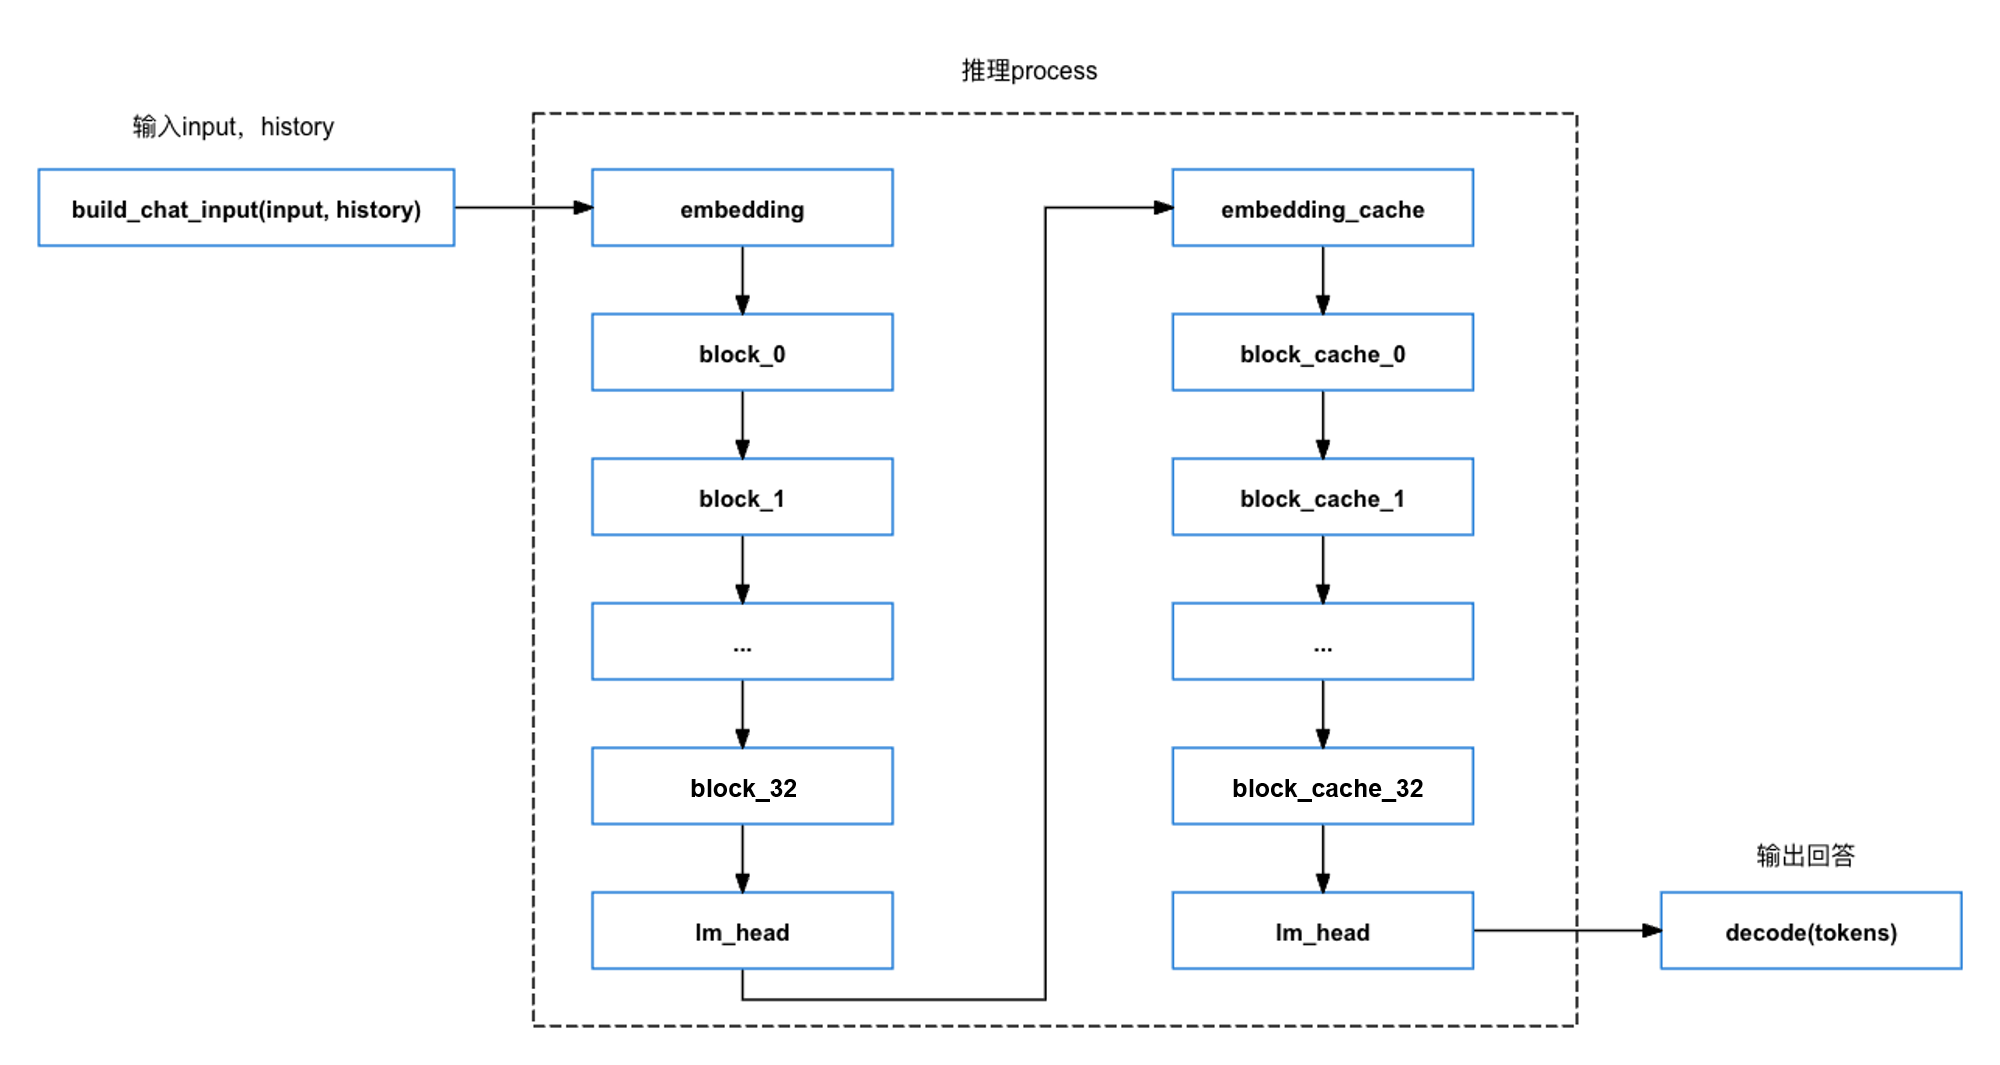
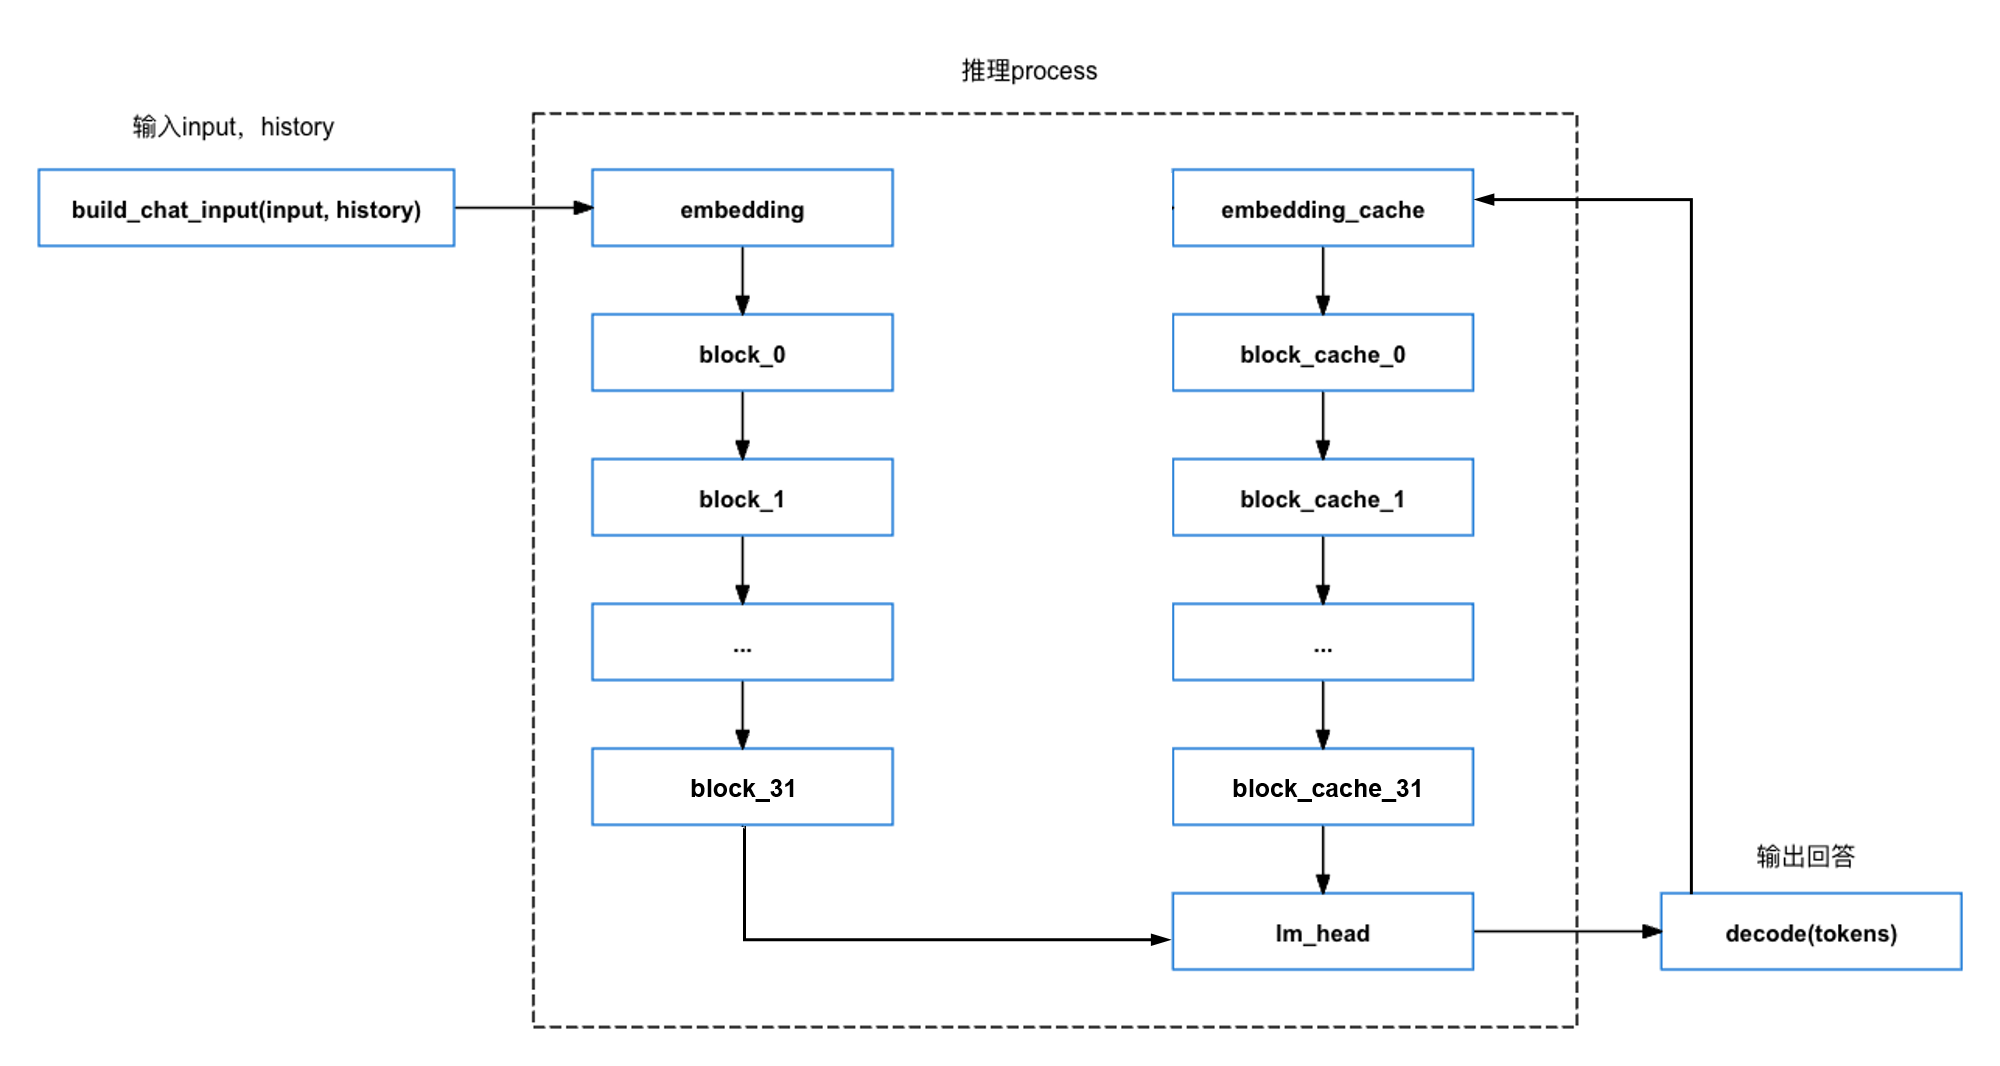
fix(Baichuan2): fix the Readme problem
jira link:
https://jira.sophgo.com/browse/SLSOFTTASK-1322
https://jira.sophgo.com/browse/SLSOFTTASK-1323
https://jira.sophgo.com/browse/SLSOFTTASK-1324
https://jira.sophgo.com/browse/SLSOFTTASK-1326
https://jira.sophgo.com/browse/SLSOFTTASK-1327

diff --git a/sample/Baichuan2/python/README.md b/sample/Baichuan2/python/README.md
@@ -12,6 +12,7 @@
     * [3.1 使用方式](#31-使用方式)
     * [3.2 程序流程图](#32-程序流程图)
     * [3.3 程序二次开发说明](#33-程序二次开发说明)
+* [4. FAQ](#4-faq)
 
 python目录下提供了一系列Python例程，具体情况如下：
 
@@ -23,51 +24,68 @@ python目录下提供了一系列Python例程，具体情况如下：
 
 ## 1. 环境准备
 ### 1.1 x86/arm PCIe平台
+首先您需要安装第三方库：
+```bash
+pip3 install -r python/requirements.txt -i https://pypi.tuna.tsinghua.edu.cn/simple
+```
+
 如果您在x86/arm平台安装了PCIe加速卡（如SC系列加速卡），并使用它测试本例程，您需要安装libsophon、sophon-opencv、sophon-ffmpeg，具体请参考[x86-pcie平台的开发和运行环境搭建](../../../docs/Environment_Install_Guide.md#3-x86-pcie平台的开发和运行环境搭建)或[arm-pcie平台的开发和运行环境搭建](../../../docs/Environment_Install_Guide.md#5-arm-pcie平台的开发和运行环境搭建)。
 
 其中，libsophon需要使用0.5.1版本，相关功能暂未发布，这里暂时提供一个可用的libsophon版本，您可以通过下面的命令下载：
 ```bash
-pip3 install dfss --upgrade  #安装dfss依赖
+pip3 install dfss  --upgrade -i https://pypi.tuna.tsinghua.edu.cn/simple  #安装dfss依赖
 python3 -m dfss --url=open@sophgo.com:sophon-demo/baichuan2/libsophon/libsophon.tar.gz  #下载libsophon软件包
 tar xvf libsophon.tar.gz
 ```
-下载完libsophon后，可参考[libsophon用户手册](https://doc.sophgo.com/sdk-docs/v23.09.01-lts/docs_latest_release/docs/libsophon/guide/html/1_install.html#)，根据对应的Linux发行版进行安装。
+下载完libsophon后，可参考[libsophon用户手册3.](https://doc.sophgo.com/sdk-docs/v23.09.01-lts/docs_latest_release/docs/libsophon/guide/html/1_install.html#)，根据您的Linux发行版选择对应的方式进行安装。
 
-此外您还需要安装其他第三方库：
-```bash
-pip3 install -r python/requirements.txt -i https://pypi.tuna.tsinghua.edu.cn/simple
-```
 您还需要安装sophon-sail，由于本例程需要的sophon-sail版本为3.8.0，相关功能暂未发布，这里暂时提供一个可用的sophon-sail版本，x86 PCIe环境可以通过下面的命令下载：
 ```bash
 #x86 pcie, py38
 python3 -m dfss --url=open@sophgo.com:sophon-demo/baichuan2/sail/sophon-3.8.0-py3-none-any.whl
-pip3 install sophon-3.8.0-py3-none-any.whl
+pip3 install sophon-3.8.0-py3-none-any.whl --force-reinstall
 ```
-如果您需要其他版本的sophon-sail，或者遇到glibc版本问题（pcie环境常见），可以通过以下命令下载源码，并参考[sophon-sail编译安装指南](https://doc.sophgo.com/sdk-docs/v23.07.01/docs_latest_release/docs/sophon-sail/docs/zh/html/1_build.html#)自己编译sophon-sail。
+如果您需要其他版本的sophon-sail，或者遇到glibc版本问题（pcie环境常见），可以通过以下命令下载源码，并参考[sophon-sail编译安装指南3.2.2.1](https://doc.sophgo.com/sdk-docs/v23.07.01/docs_latest_release/docs/sophon-sail/docs/zh/html/1_build.html#id4)自己编译sophon-sail。
 ```bash
 python3 -m dfss --url=open@sophgo.com:sophon-demo/baichuan2/sail/sophon-sail_3.8.0.tar.gz
 tar xvf sophon-sail_3.8.0.tar.gz
 ```
 
 ### 1.2 SoC平台
-
-如果您使用SoC平台（如SE、SM系列边缘设备），并使用它测试本例程，刷机后在`/opt/sophon/`下已经预装了相应的libsophon、sophon-opencv和sophon-ffmpeg运行库包。
-
-此外您还需要安装其他第三方库：
+首先您需要安装第三方库：
 ```bash
 pip3 install -r python/requirements.txt -i https://pypi.tuna.tsinghua.edu.cn/simple
 ```
-由于本例程需要的sophon-sail版本为3.8.0，这里提供一个可用的sophon-sail whl包，SoC环境可以通过下面的命令下载：
+> **注意：**
+> 1. 若`xformers`安装失败，报错`ModuleNotFoundError: No module named 'torch'`，原因可能是刷机后的新环境没有顺利安装`torch`。按以下方法单独安装好torch后，即可继续安装第三方库。
 ```bash
-pip3 install dfss --upgrade
-python3 -m dfss --url=open@sophgo.com:sophon-demo/baichuan2/sail/sophon_arm-3.8.0-py3-none-any.whl #arm soc, py38
+pip3 install torch==2.1.2 --force-reinstall
 ```
-如果您需要其他版本的sophon-sail，或者遇到glibc版本问题，可以通过以下命令下载libsophon软件包和sophon-sail源码，并参考[libsophon安装指南](https://doc.sophgo.com/sdk-docs/v23.09.01-lts/docs_latest_release/docs/libsophon/guide/html/1_install.html#)自己安装libsophon，然后参考[sophon-sail编译安装指南](https://doc.sophgo.com/sdk-docs/v23.07.01/docs_latest_release/docs/sophon-sail/docs/zh/html/1_build.html#)自己编译sophon-sail。
+> 2. 若安装`xformers`时卡死，请查看cpu内存是否达到4096MB。内存不足可参考[SoC内存修改方法](../README.md#3-运行环境准备)降低tpu内存，待安装完python第三方库后再将tpu内存改至 所需大小。
+
+如果您使用SoC平台（如SE、SM系列边缘设备），并使用它测试本例程，刷机后在`/opt/sophon/`下已经预装了相应的libsophon、sophon-opencv和sophon-ffmpeg运行库包。
+若预装的libsophon版本不是0.5.1，您还需要通过以下命令下载SD卡刷机包，并参考[BSP-软件更新](https://doc.sophgo.com/sdk-docs/v23.09.01-lts/docs_latest_release/docs/sophon-img/reference/html/1_BM1684X-software.html#id14)对设备进行刷机。刷机后libsophon版本即为0.5.1。
 ```bash
-#libsophon软件包
+#下载SD卡刷机包
+python3 -m dfss --url=open@sophgo.com:sophon-demo/baichuan2/libsophon/sdcard.tgz  
+```
+
+由于本例程需要的sophon-sail版本为3.8.0，这里提供一个可用的sophon-sail whl包，SoC环境可以通过下面的命令下载并安装：
+```bash
+pip3 install dfss  --upgrade -i https://pypi.tuna.tsinghua.edu.cn/simple
+python3 -m dfss --url=open@sophgo.com:sophon-demo/baichuan2/sail/sophon_arm-3.8.0-py3-none-any.whl #arm soc, py38
+pip3 install sophon_arm-3.8.0-py3-none-any.whl --force-reinstall
+```
+
+如果您需要其他版本的sophon-sail，或者遇到glibc版本问题，可以参考以下步骤，下载源码、交叉编译sophon-sail并安装：
+先下载交叉编译所需的libsophon软件包；
+```bash
+#libsophon交叉编译软件包
 python3 -m dfss --url=open@sophgo.com:sophon-demo/baichuan2/libsophon/libsophon_soc_0.5.1_aarch64.tar.gz
 tar xvf libsophon_soc_0.5.1_aarch64.tar.gz
-
+```
+然后再通过以下命令下载sophon-sail源码，并参考[sophon-sail编译安装指南3.2.3.2](https://doc.sophgo.com/sdk-docs/v23.07.01/docs_latest_release/docs/sophon-sail/docs/zh/html/1_build.html#id5)，交叉编译sophon-sail。
+```bash
 #sophon-sail源码
 python3 -m dfss --url=open@sophgo.com:sophon-demo/baichuan2/sail/sophon-sail_3.8.0.tar.gz
 tar xvf sophon-sail_3.8.0.tar.gz
@@ -161,4 +179,16 @@ history = [
 client = Qwen(st.session_state.handle, st.session_state.engine, st.session_state.tokenizer)
 ...
 stream = client.chat_stream(...)
+```
+
+## 4. FAQ
+
+若在SoC模式下运行web demo时出现以下报错：
+```bash
+ImportError: /home/linaro/.local/lib/python3.8/site-packages/torch/lib/../../torch.libs/libgomp-6e1a1d1b.so.1.0.0: cannot allocate memory in static TLS block
+```
+原因是加载动态链接库时，TLS内存分配不足所致。解决方法如下：
+运行如下命令，预加载libgomp-6e1a1d1b.so.1.0.0库，再启动web应用即可正常运行。
+```bash
+export LD_PRELOAD=/home/linaro/.local/lib/python3.8/site-packages/torch/lib/../../torch.libs/libgomp-6e1a1d1b.so.1.0.0
 ```

diff --git a/sample/Baichuan2/docs/Baichuan2_Export_Compile.md b/sample/Baichuan2/docs/Baichuan2_Export_Compile.md
@@ -35,22 +35,22 @@ newgrp docker
 
 从sftp上获取TPU-MLIR压缩包（需要20240102的版本）
 ```bash
-pip3 install dfss --upgrade
+pip3 install dfss  --upgrade -i https://pypi.tuna.tsinghua.edu.cn/simple
 python3 -m dfss --url=open@sophgo.com:sophon-demo/baichuan2/tpu-mlir_v1.6.100-g882a3523-20240102.tar.gz
 tar zxvf tpu-mlir_v1.6.100-g882a3523-20240102.tar.gz
 ```
 
 ### 2.1.3. 创建并进入docker
 
-TPU-MLIR使用的docker是sophgo/tpuc_dev:v3.2, docker镜像和tpu-mlir有绑定关系，少数情况下有可能更新了tpu-mlir，需要新的镜像。
+TPU-MLIR使用的docker是sophgo/tpuc_dev:v3.2，docker镜像和tpu-mlir有绑定关系，少数情况下有可能更新了tpu-mlir，需要新的镜像。
 ```bash
 docker pull sophgo/tpuc_dev:v3.2
-# 这里将本级目录映射到docker内的/workspace目录,用户需要根据实际情况将demo的目录映射到docker里面
-# myname只是举个名字的例子, 请指定成自己想要的容器的名字
+# 这里将本级目录映射到docker内的/workspace目录，用户需要根据实际情况将sophon-demo的目录映射到docker里面
+# myname只是举个名字的例子，请指定成自己想要的容器的名字
 docker run --name myname -v $PWD:/workspace -it sophgo/tpuc_dev:v3.2
 # 此时已经进入docker，并在/workspace目录下
 # 初始化软件环境
-cd /workspace/tpu-mlir_vx.y.z-<hash>-<date>
+cd /workspace/tpu-mlir_v1.6.100-g882a3523-20240102
 source ./envsetup.sh
 cd ..
 ```
@@ -62,14 +62,15 @@ cd ..
 
 **注：** Baichuan2-7B-Chat官方库16G左右，在下载之前，要确认自己有huggingface官网的access token或者SSH key。
 ```bash
-git lfs install
+sudo apt-get install git-lfs    # 安装Git-LFS软件包，只需执行一次
+git lfs install                 # 设置必要的Git钩子来初始化Git-LFS，若遇到Error，需要初始化到一个新的Git仓库或切换到已有的Git仓库目录中
 git clone https://huggingface.co/baichuan-inc/Baichuan2-7B-Chat
 ```
 如果git clone完代码之后出现卡住，可以尝试`ctrl+c`中断，然后进入仓库运行`git lfs pull`。
 
 如果无法从官网下载，也可以下载我们之前下好的，压缩包12G左右：
 ```bash
-pip3 install dfss
+pip3 install dfss --upgrade -i https://pypi.tuna.tsinghua.edu.cn/simple
 python3 -m dfss --url=open@sophgo.com:sophon-demo/baichuan2/Baichuan2-7B-Chat.tar.gz
 tar zxvf Baichuan2-7B-Chat.tar.gz
 ```
@@ -80,8 +81,8 @@ export BAICHUAN2_PATH=$PWD/Baichuan2-7B-Chat
 ```
 
 ### 2.2.2 修改官方代码：
-进入本例程Baichuan2目录。
-本例程的`tools`目录下提供了修改好之后的`config.json`和`modeling_baichuan.py`，可以直接替换掉原仓库的文件：
+进入本例程`sophon-demo/sample/Baichuan2`。
+本例程的`./tools`目录下提供了修改好之后的`Baichuan2-7B-Chat/config.json`和`Baichuan2-7B-Chat/modeling_baichuan.py`，可以直接替换掉原仓库的文件：
 ```bash
 cp tools/baichuan2-7b/config.json $BAICHUAN2_PATH
 cp tools/baichuan2-7b/modeling_baichuan.py $BAICHUAN2_PATH
@@ -102,7 +103,7 @@ export PYTHONPATH=$BAICHUAN2_PATH:$PYTHONPATH
 pip install -r python/requirements.txt -i https://pypi.tuna.tsinghua.edu.cn/simple
 python3 tools/export_onnx.py --model_path $BAICHUAN2_PATH
 ```
-此时有大量onnx模型被导出到本例程中`Baichuan2/models/onnx`的目录。
+此时有大量onnx模型被导出到本例程中`./models/onnx`的目录。
 
 ### 2.3 bmodel编译
 
@@ -112,7 +113,7 @@ python3 tools/export_onnx.py --model_path $BAICHUAN2_PATH
 ./script/gen_bmodel.sh --mode int8
 ```
 
-其中，mode可以指定fp16/int8/int4，编译成功之后，模型将会存放在`models/BM1684X/`目录下。
+其中，mode可以指定fp16/int8/int4，编译成功之后，模型将会存放在`./models/BM1684X/`目录下。
 
 ### 2.4 准备tokenizer
 

diff --git a/sample/Baichuan2/README.md b/sample/Baichuan2/README.md
@@ -23,7 +23,7 @@ Baichuan2-7B 是开源中英双语对话模型 Baichuan-7B 的第二代版本，
 
 
 ## 3. 运行环境准备
-在PCIe上无需修改内存，以下为soc模式相关：
+在PCIe上无需修改内存，以下为SoC模式相关：
 对于1684X系列设备（如SE7/SM7），都可以通过这种方式完成环境准备，使得满足Baichuan2运行条件。首先，在1684x SoC环境上，参考如下命令修改设备内存。
 ```bash
 cd /data/
@@ -31,16 +31,17 @@ mkdir memedit && cd memedit
 wget -nd https://sophon-file.sophon.cn/sophon-prod-s3/drive/23/09/11/13/DeviceMemoryModificationKit.tgz
 tar xvf DeviceMemoryModificationKit.tgz
 cd DeviceMemoryModificationKit
-tar xvf memory_edit_{vx.x}.tar.xz #vx.x是版本号
+tar xvf memory_edit_v2.9.tar.xz
 cd memory_edit
 ./memory_edit.sh -p #这个命令会打印当前的内存布局信息
 ./memory_edit.sh -c -npu 7615 -vpu 3072 -vpp 3072 #npu也可以访问vpu和vpp的内存
-sudo cp /data/memedit/DeviceMemoryModificationKit/memory_edit/boot.itb /boot/boot.itb && sync
+sudo cp /data/memedit/DeviceMemoryModificationKit/memory_edit/emmcboot.itb /boot/emmcboot.itb && sync
 sudo reboot
 ```
 > **注意：**
 > 1. tpu总内存为npu/vpu/vpp三者之和，int8应满足tpu内存 >= 9216MB，int4应满足tpu内存 >= 6144MB。
-> 2. 更多教程请参考[SoC内存修改工具](https://doc.sophgo.com/sdk-docs/v23.09.01-lts/docs_latest_release/docs/SophonSDK_doc/zh/html/appendix/2_mem_edit_tools.html)
+> 2. 安装python第三方库需要满足cpu内存 >= 4096MB。若不满足，需要先减小tpu内存，安装python第三方库后再按以上步骤修改tpu内存。
+> 3. 更多教程请参考[SoC内存修改工具](https://doc.sophgo.com/sdk-docs/v23.09.01-lts/docs_latest_release/docs/SophonSDK_doc/zh/html/appendix/2_mem_edit_tools.html)。
 
 ## 4. 准备模型
 该模型目前只支持在1684X上运行，已提供编译好的bmodel。
@@ -48,7 +49,7 @@ sudo reboot
 
 本例程在`scripts`目录下提供了下载脚本`download.sh`
 
-**注意：**在运行前，应该保证存储空间大于15GB。
+**注意：**在运行前，应该保证存储空间大于15GB。对于SoC模式，建议将模型下载到`/data`目录。
 
 ```bash
 # 安装unzip，若已安装请跳过，非ubuntu系统视情况使用yum或其他方式安装
@@ -61,7 +62,7 @@ chmod -R +x scripts/
 
 ```bash
 ├── docs
-│   └── Baichuan2_Export_Guide.md   #Baichuan2 onnx导出和bmodel编译指南
+│   └── Baichuan2_Export_Compile.md   #Baichuan2 onnx导出和bmodel编译指南
 ├── models
 │   └── BM1684X                     #download.sh下载的bmodel
 │       ├── baichuan2-7b_int4_1dev.bmodel
@@ -88,7 +89,7 @@ chmod -R +x scripts/
 
 ### 4.2 自行编译模型
 
-此部分请参考[Baichuan2模型导出与编译](./docs/Baichuan2_Export_Guide.md)
+此部分请参考[Baichuan2模型导出与编译](./docs/Baichuan2_Export_Compile.md)
 
 ## 5. 例程测试
 
@@ -105,4 +106,5 @@ chmod -R +x scripts/
 > **测试说明**：
 > 1. 性能测试结果具有一定的波动性，建议多次测试取平均值；
 > 2. SE7-32的主控处理器为8核 ARM A53 42320 DMIPS @2.3GHz，PCIe上的性能由于处理器的不同可能存在较大差异；
-> 3. 这里使用的SDK版本是V24.04.01。
+> 3. 这里使用的SDK版本是V24.04.01；
+> 4. 用`baichuan2.py`命令行和web demo两种方式测试的结果没有明显差异。
